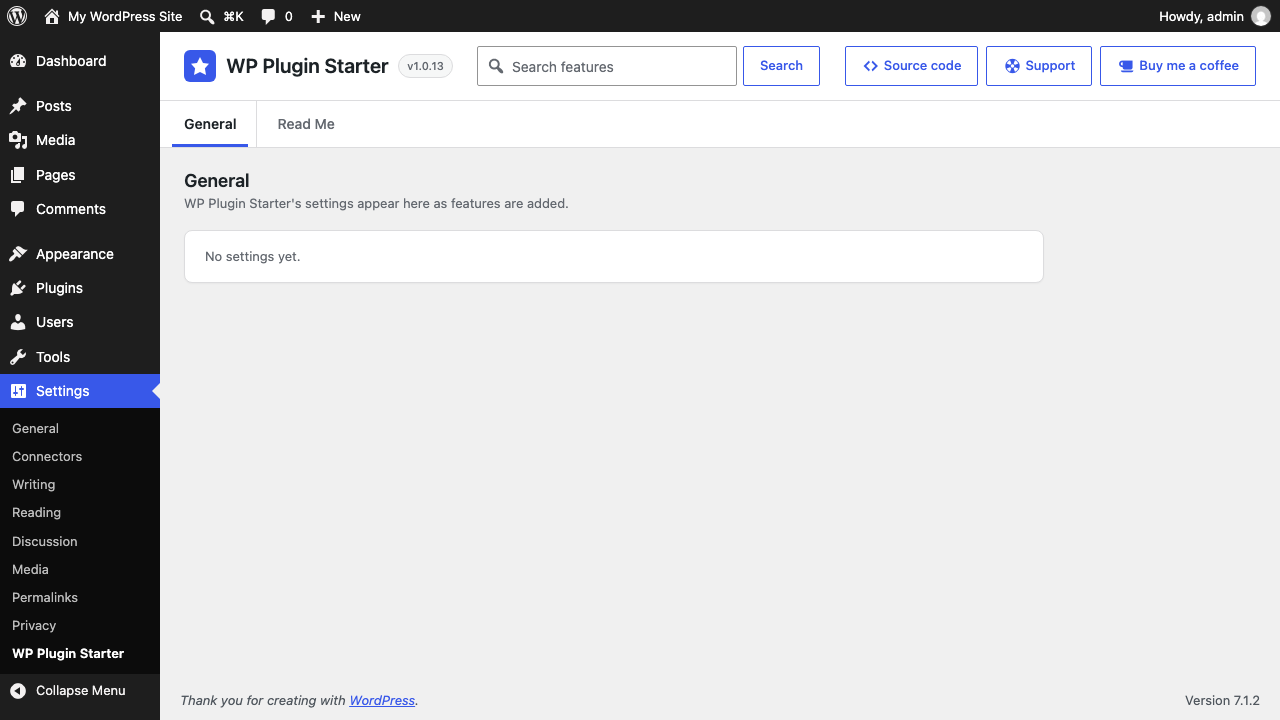
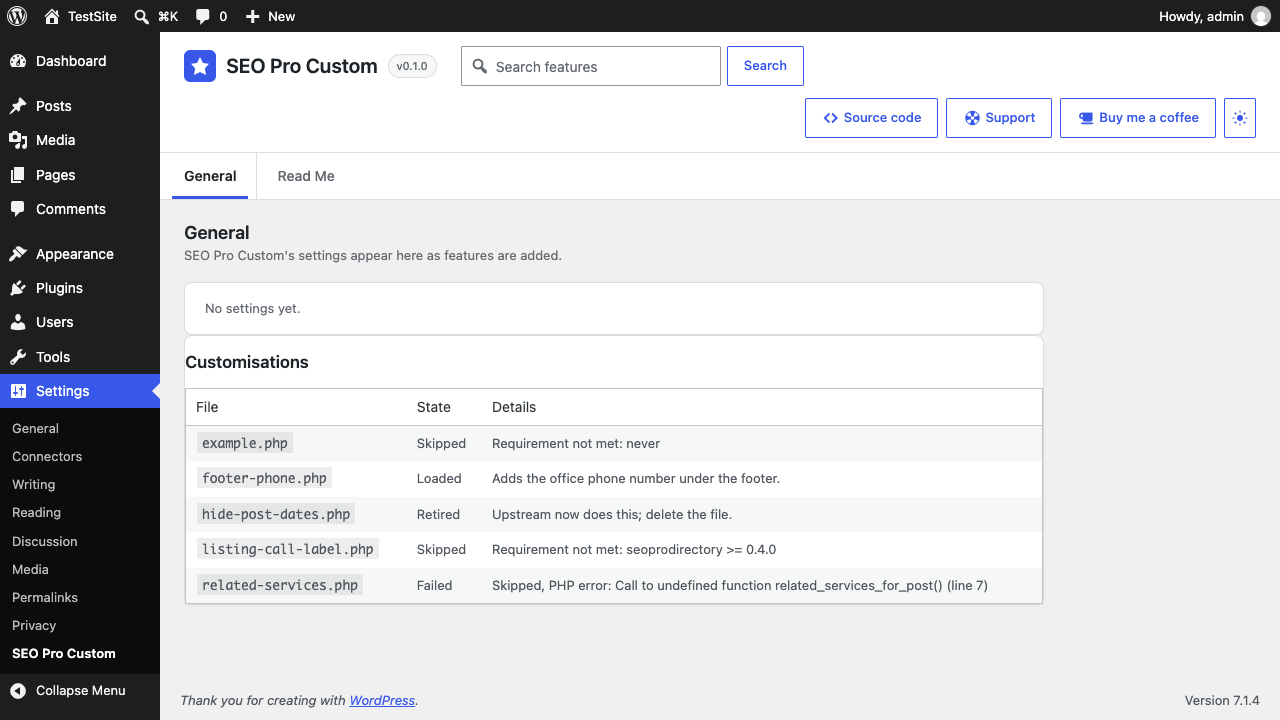
chore: new screenshots and plugin description
Screenshot 1: Settings, Customisations card with a loaded, skipped, retired and failed file. Screenshot 2: the Site Health item for a failed file. Taken on a Docker test site (scripts/test-site.sh) with demo customisation files on the site only. The plugin header Description now matches readme.txt's short description.

diff --git a/seoprocustom.php b/seoprocustom.php
@@ -2,7 +2,7 @@
 /**
  * Plugin Name:       SEO Pro Custom
  * Plugin URI:        https://github.com/wpallstars/seoprocustom
- * Description:       Your site's own changes, one file each, in your own repository, switched off when an SEO Pro Stack product does the same.
+ * Description:       Change how your theme and plugins behave when their settings can't, without waiting on their makers: one small file per change, in your own copy.
  * Version:           0.1.0
  * Requires at least: 6.2
  * Requires PHP:      7.4
